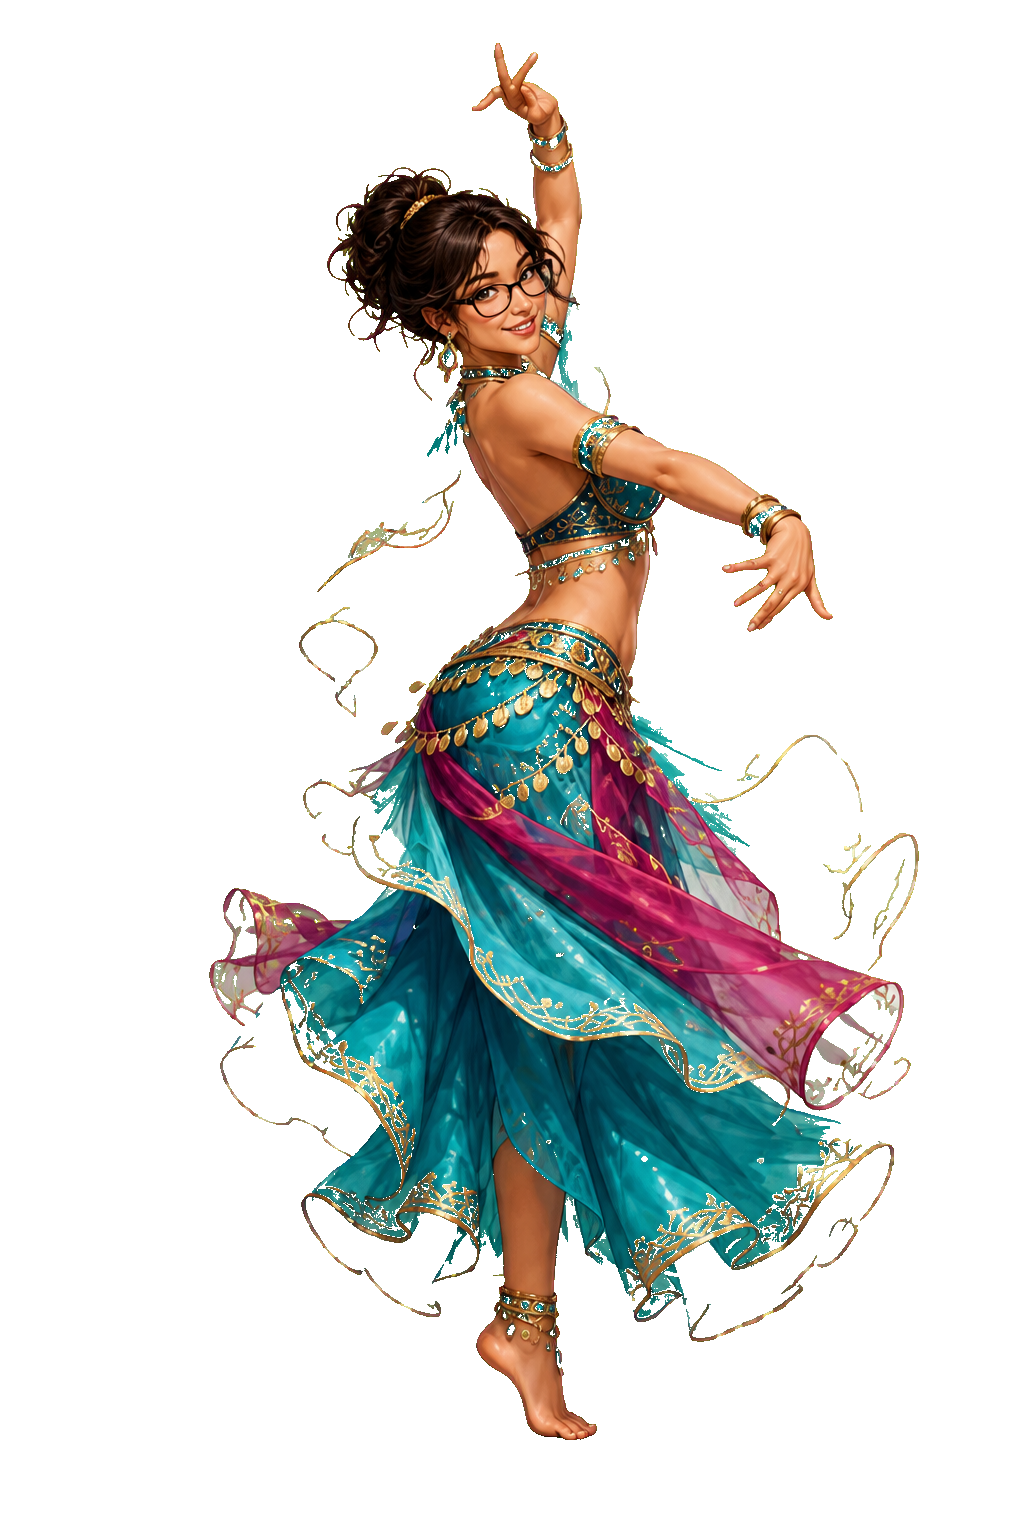
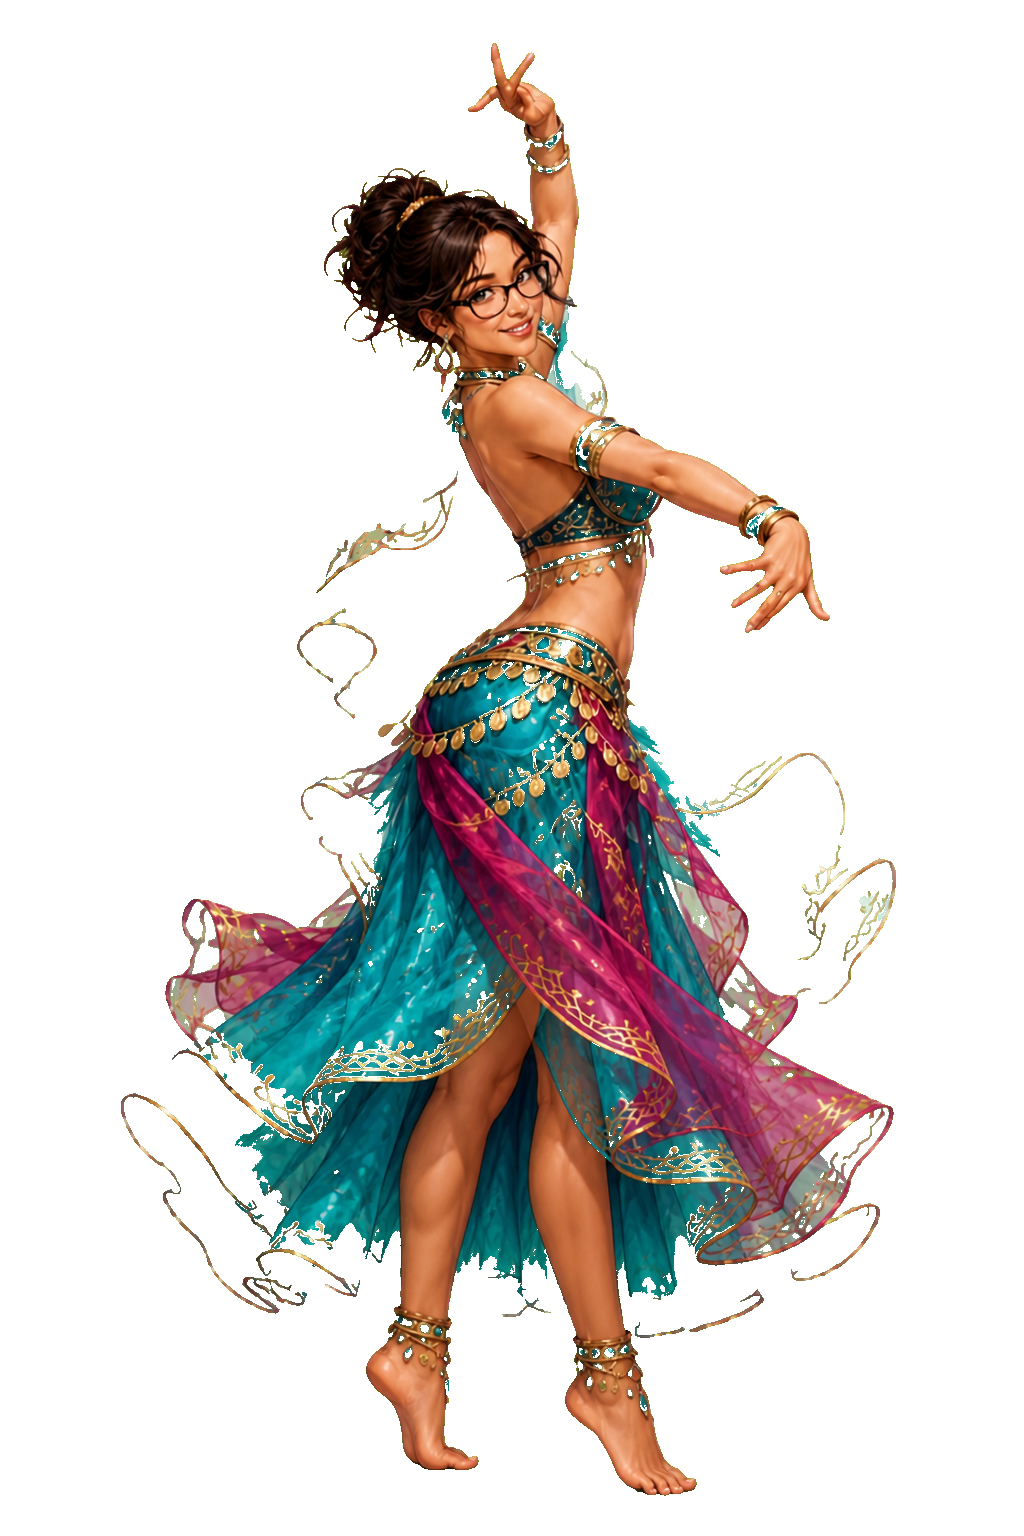
Fix belly dance frame and macOS MCP smoke

diff --git a/tests/test_ruby_overlay_mcp.py b/tests/test_ruby_overlay_mcp.py
@@ -153,6 +153,7 @@ class RubyOverlayMcpTests(unittest.TestCase):
         self.assertIn("ruby_overlay_create_shortcut", tool_names)
         self.assertIn("ruby_overlay_set_mode", tool_names)
 
+    @unittest.skipUnless(os.name == "nt", "Windows shortcut behavior is covered on Windows")
     def test_mcp_windows_shortcut_uses_detached_hidden_powershell(self):
         module = load_module()
 